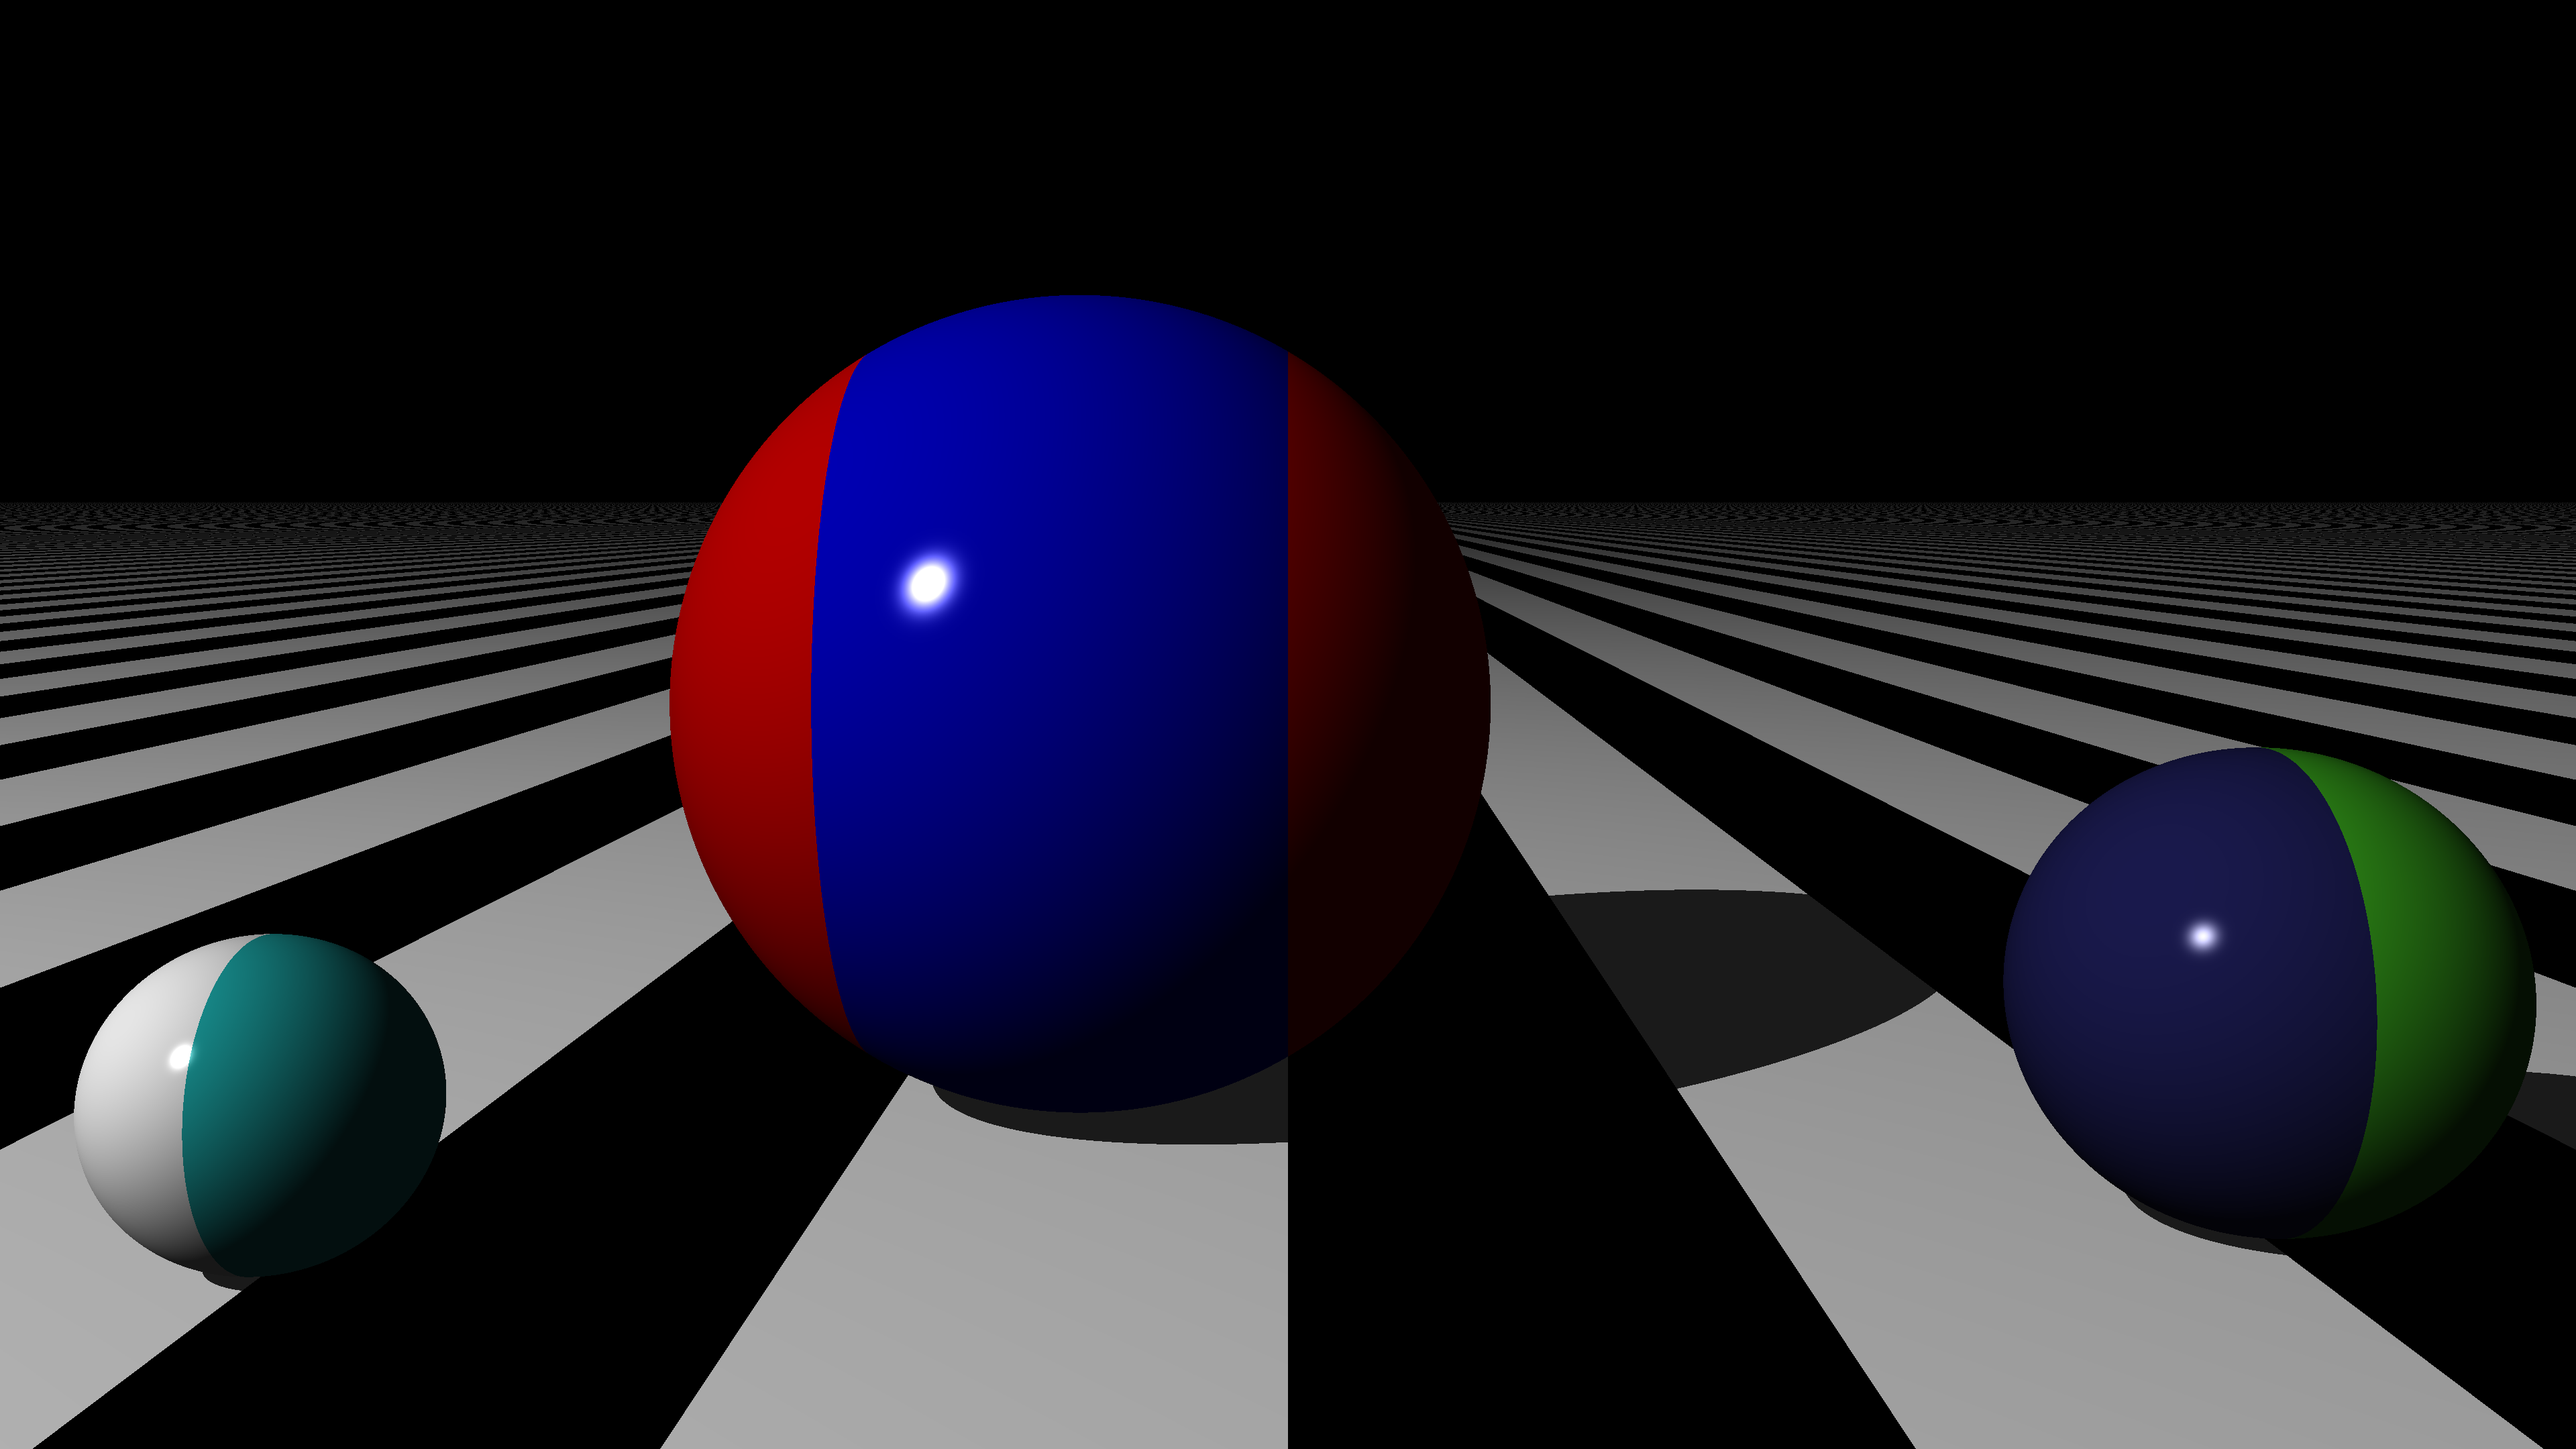
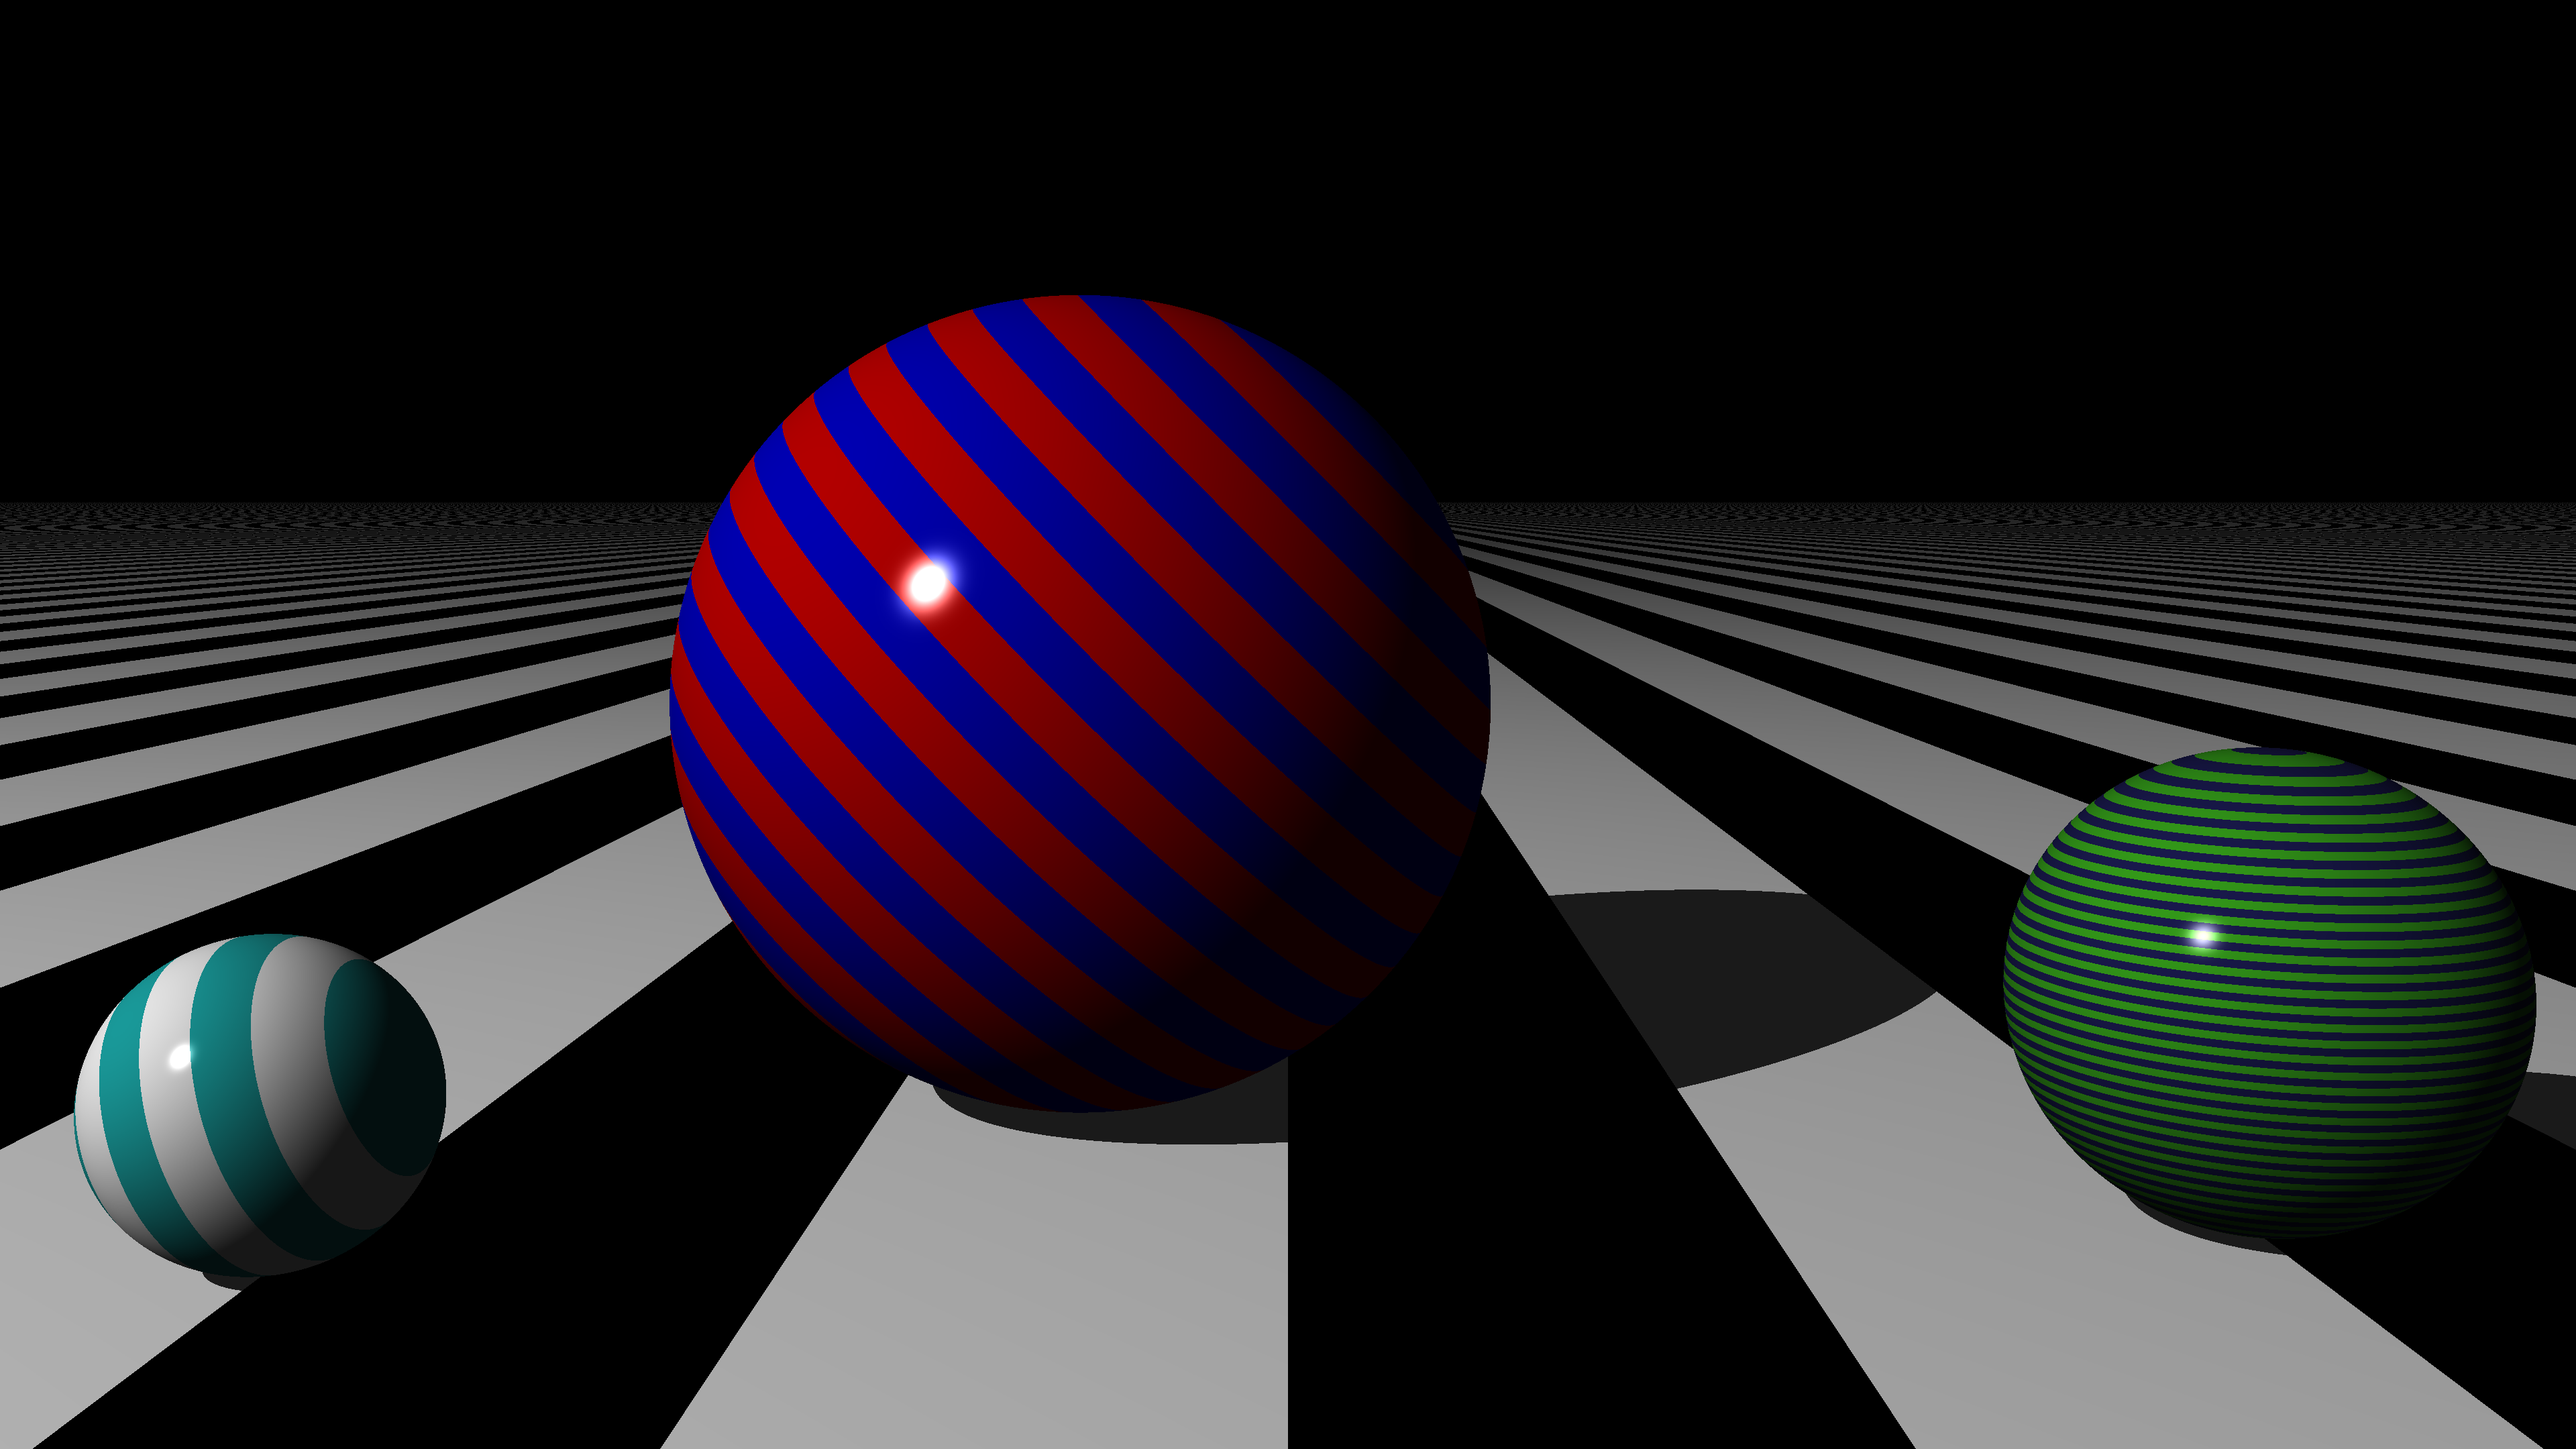
Feat: pattern transformation is now independent from object transformation

Changed region(s): [[0.25, 0.1861, 0.5625, 0.7444], [0.7812, 0.4963, 0.9688, 0.8375], [0.0312, 0.6514, 0.1562, 0.8685]]

diff --git a/src/pattern.rs b/src/pattern.rs
@@ -1,17 +1,18 @@
 use crate::body::{Body, Intersectable};
 use crate::color::Color;
 use crate::fuzzy_eq::FuzzyEq;
-// use crate::matrix::Matrix;
+use crate::matrix::Matrix;
 use crate::tuple::Tuple;
 
 
 pub trait Stencil {
     fn color_at_in_pattern_space(&self, position: Tuple) -> Color;
-    // fn transform(&self) -> Matrix<4>;
+    fn transform(&self) -> Matrix<4>; 
     fn color_at(&self, position: Tuple, body: &Body) -> Color{
       let object_position = body.transform().inverse() * position;
-      // let pattern_position = self.transform().inverse() * object_position;
-      self.color_at_in_pattern_space(object_position)
+      //apply pattern transform to color at position
+      let pattern_position = self.transform().inverse() * object_position;
+      self.color_at_in_pattern_space(pattern_position)
     }
 }
 #[derive(Clone, Copy, Debug, PartialEq)]
@@ -33,12 +34,12 @@ impl Stencil for Pattern {
             Pattern::Striped(ref striped) => striped.color_at_in_pattern_space(position),
         }
     }
-    // fn transform(&self) -> Matrix<4> {
-    //   match *self {
-    //     Pattern::Striped(ref striped) => striped.transform(),
-    //     // Pattern::Gradient(ref gradient) => gradient.transform(),
-    //   }
-    // }
+    fn transform(&self) -> Matrix<4> {
+      match *self {
+        Pattern::Striped(ref striped) => striped.transform(),
+        // Pattern::Gradient(ref gradient) => gradient.transform(),
+      }
+    }
 }
 
 impl From<Striped> for Pattern {
@@ -51,12 +52,18 @@ impl From<Striped> for Pattern {
 pub struct Striped {
     color_a: Color,
     color_b: Color,
+    transform: Matrix<4>,
 }
 
 impl Striped {
     pub fn with_colors(mut self, color_a: Color, color_b: Color) -> Self {
         self.color_a = color_a;
         self.color_b = color_b;
+        self
+    }
+
+    pub fn with_transform(mut self, transform: Matrix<4>) -> Self {
+        self.transform = transform;
         self
     }
 }
@@ -66,6 +73,7 @@ impl Default for Striped {
         Self {
             color_a: Color::black(),
             color_b: Color::white(),
+            transform: Matrix::identity(),
         }
     }
 }
@@ -78,6 +86,9 @@ impl Stencil for Striped {
         } else {
             self.color_b
         }
+    }
+    fn transform(&self) -> Matrix<4> {
+      self.transform
     }
 }
 

diff --git a/src/world_loader/yaml.rs b/src/world_loader/yaml.rs
@@ -383,19 +383,19 @@ impl<'a> YamlParser<'a> {
       self.path.push(Segment::Key("colorB".into()));
       let color_b = self.visit_color(color_b_value)?;
       self.path.pop();
-  
-      // let mut transform = Matrix::identity();
-      // if pattern_hash.contains_key(key!("transforms")) {
-        // let transforms_value = self.get_value_from_hash(pattern_hash, "transforms")?;
-        // self.path.push(Segment::Key("transform".into()));
-        // transform = self.visit_transforms(transforms_value)?;
-        // self.path.pop();
-      // }
-  
+
+      let mut transform = Matrix::identity();
+      if pattern_hash.contains_key(key!("transforms")) {
+        let transforms_value = self.get_value_from_hash(pattern_hash, "transforms")?;
+        self.path.push(Segment::Key("transform".into()));
+        transform = self.visit_transforms(transforms_value)?;
+        self.path.pop();
+      }
+
       Ok(Pattern::from(
         Striped::default()
           .with_colors(color_a, color_b)
-          // .with_transform(transform),
+          .with_transform(transform),
       ))
     }
 
